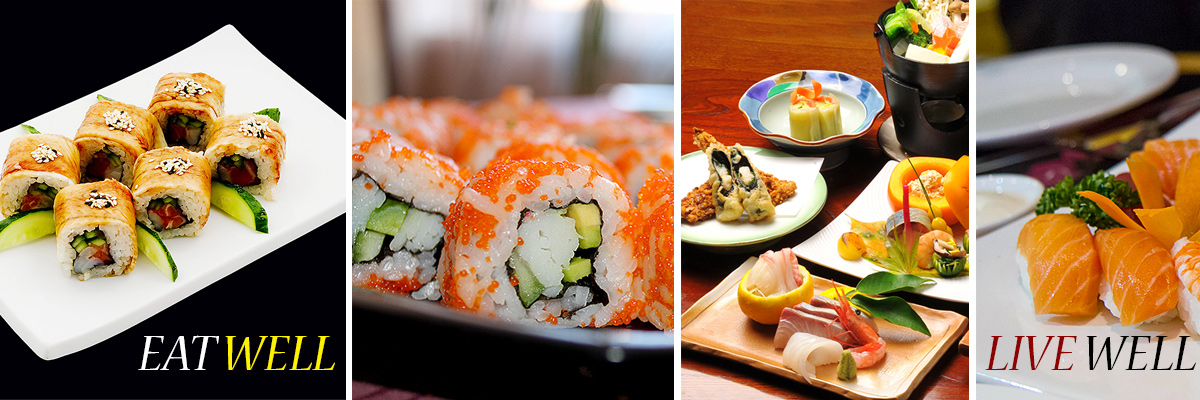
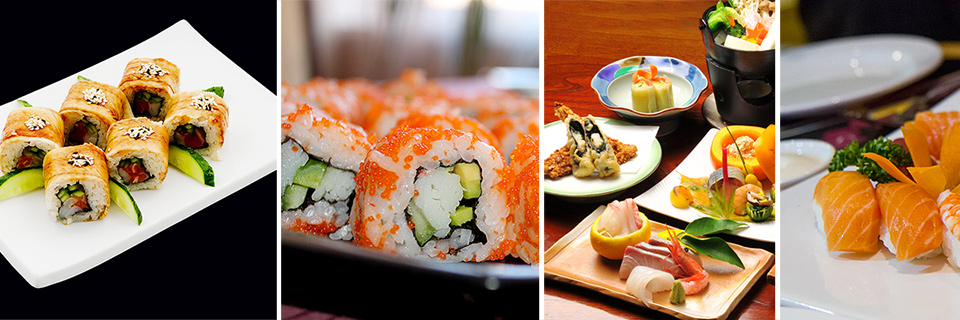
first draft

diff --git a/index.html b/index.html
@@ -6,11 +6,21 @@
     <!-- Load Stylesheet -->
 <link href= "css/style.css" rel="stylesheet">
 <link href='http://fonts.googleapis.com/css?family=PT+Sans:400,700,400italic,700italic' rel='stylesheet' type='text/css'>
-<title>The Sushi Palace</title>
+
+    <!-- Page Title -->
+    <title>The Sushi Palace</title>
 </head>
 	<body>
+        
+      <!-- BACKGROUND -->
+      <div id="bg-pattern"></div>
+      <div id="bg-header"></div>
+      <div id="bg-image"></div>
+      <!-- /BACKGROUND -->
+        
         <div id="center">
-         <!-- Start Nav -->	                  
+         
+        <!-- Start Nav -->	                  
         <div id="nav">
             <ul>
                 <li><a href="#">Home</a></li>
@@ -24,7 +34,7 @@
         <h1>WELCOME TO THE SUSHI PALACE</h1>      
         <img src="images/main-image.jpg" 
                 alt="main landing image" 
-                title= "Sushi Palace main food" style="width:960;height:373px"/>
+                title= "Sushi Palace main food" style="width:960px; height:320px"/>
          <h2>Why Choose The Sushi Palace.</h2>
 <p>The most affordable sushi, with the widest variery of seafood. Located on the waterfronts collins avenue, with breath taking scenery while you enjoy gourmet sushi food and a wide array of mix drinks.</p>
             

diff --git a/css/style.css b/css/style.css
@@ -1,19 +1,27 @@
 /*	
 -------------------------------------------
-	1. BODY
+	1. TYPOGRAPHY
 -------------------------------------------
 */
-body {font-family: 'PT Sans', sans-serif;
-    background-color: #EF8C00;
+
+html, body  
+{   width: 100%;
+    height: 100%;
+    weight: 0;
 }
 
-#center {width: 1080px;
+
+body {font-family: 'PT Sans', sans-serif;
+    background-color: #EF8C00;
+ -webkit-font-smoothing: antialiased;
+}
+
+#center {width: 960px;
     margin: auto;
 }
 
 h1 {
     color: #ffffff;
-    opacity: 0.85;
     font-size: 30px;
     line-height: 1.0em;
     text-align: left;
@@ -33,11 +41,26 @@ h4 {color: #ffffff;
 }
 
 
+
+
 /*	
 -------------------------------------------
 	2. HEADER
 -------------------------------------------
 */
+
+#bg-header
+{
+    position: fixed;
+    z-index: 0;
+    top: 0;
+    right: 0;
+    bottom: 0;
+    left: 0;
+
+    background: rgba(0, 0, 0, .5);
+}
+
 
 li {
     width: auto;
